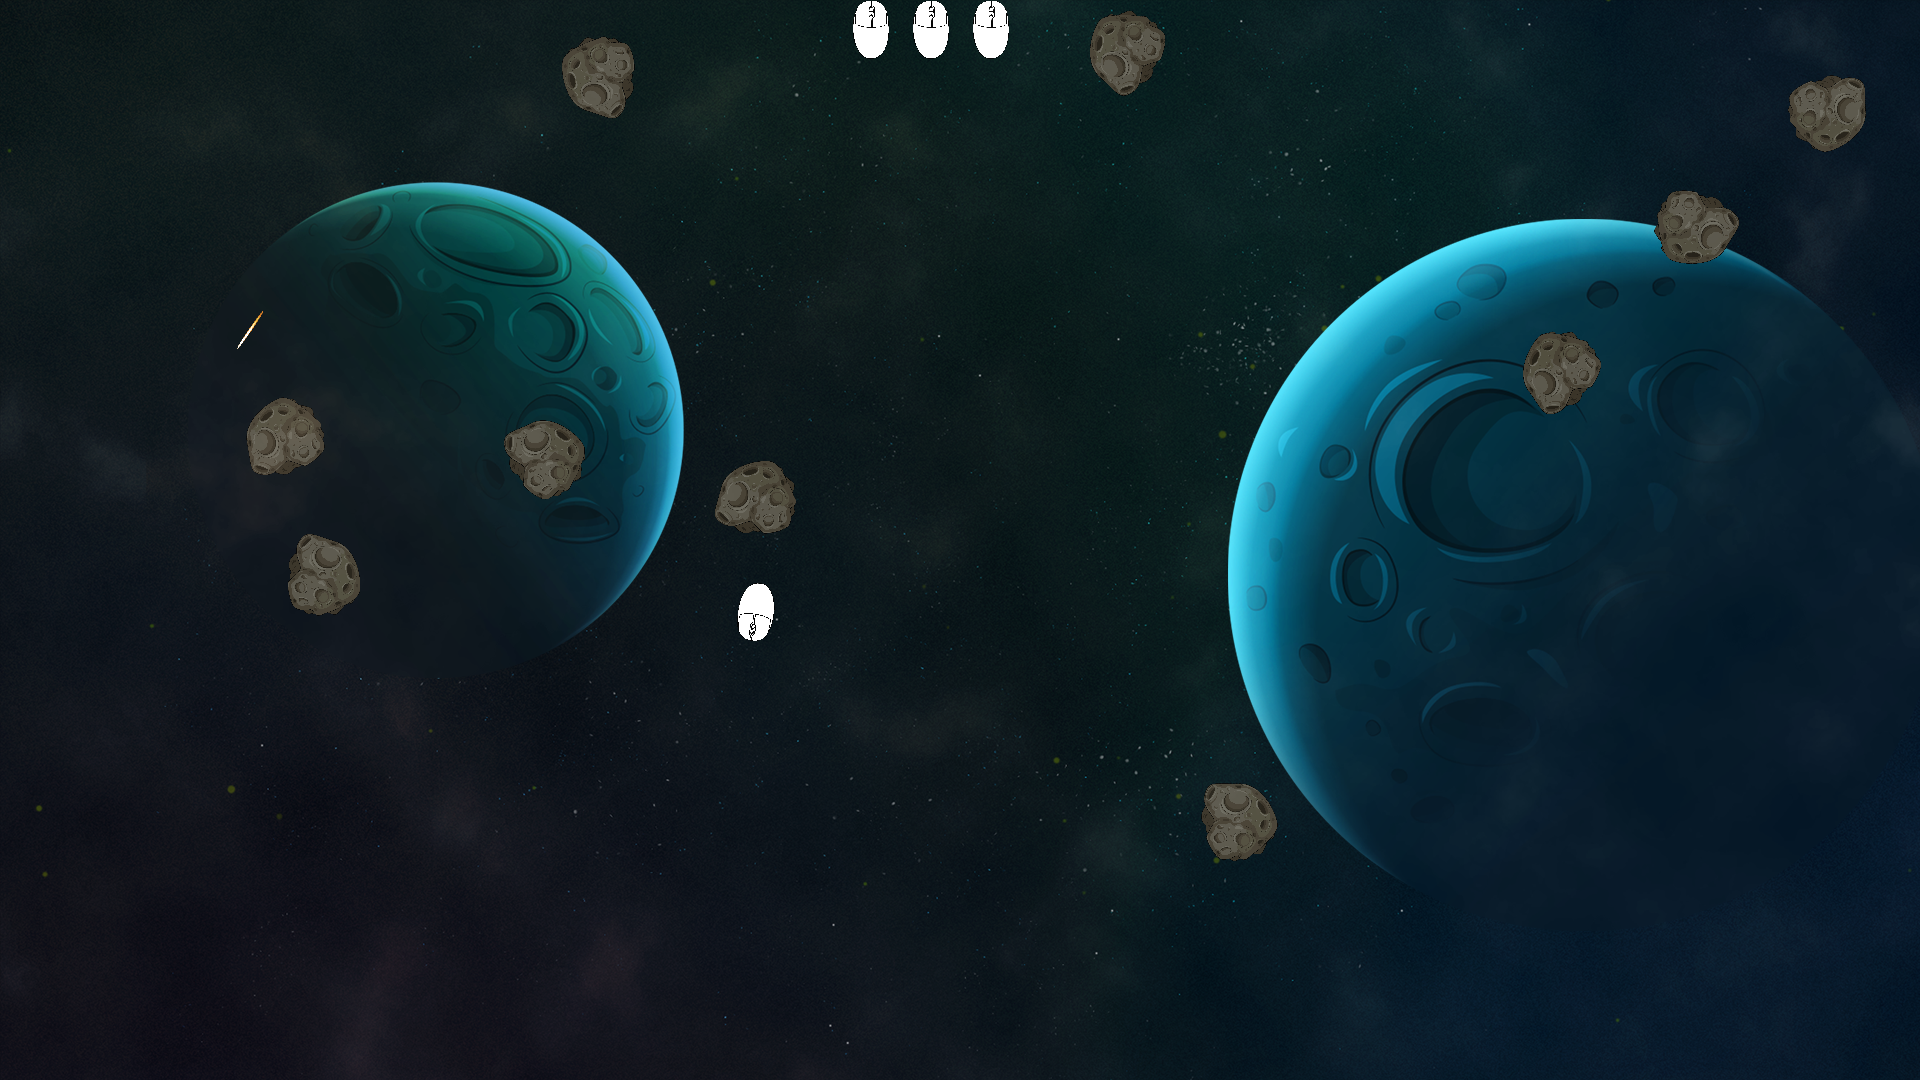
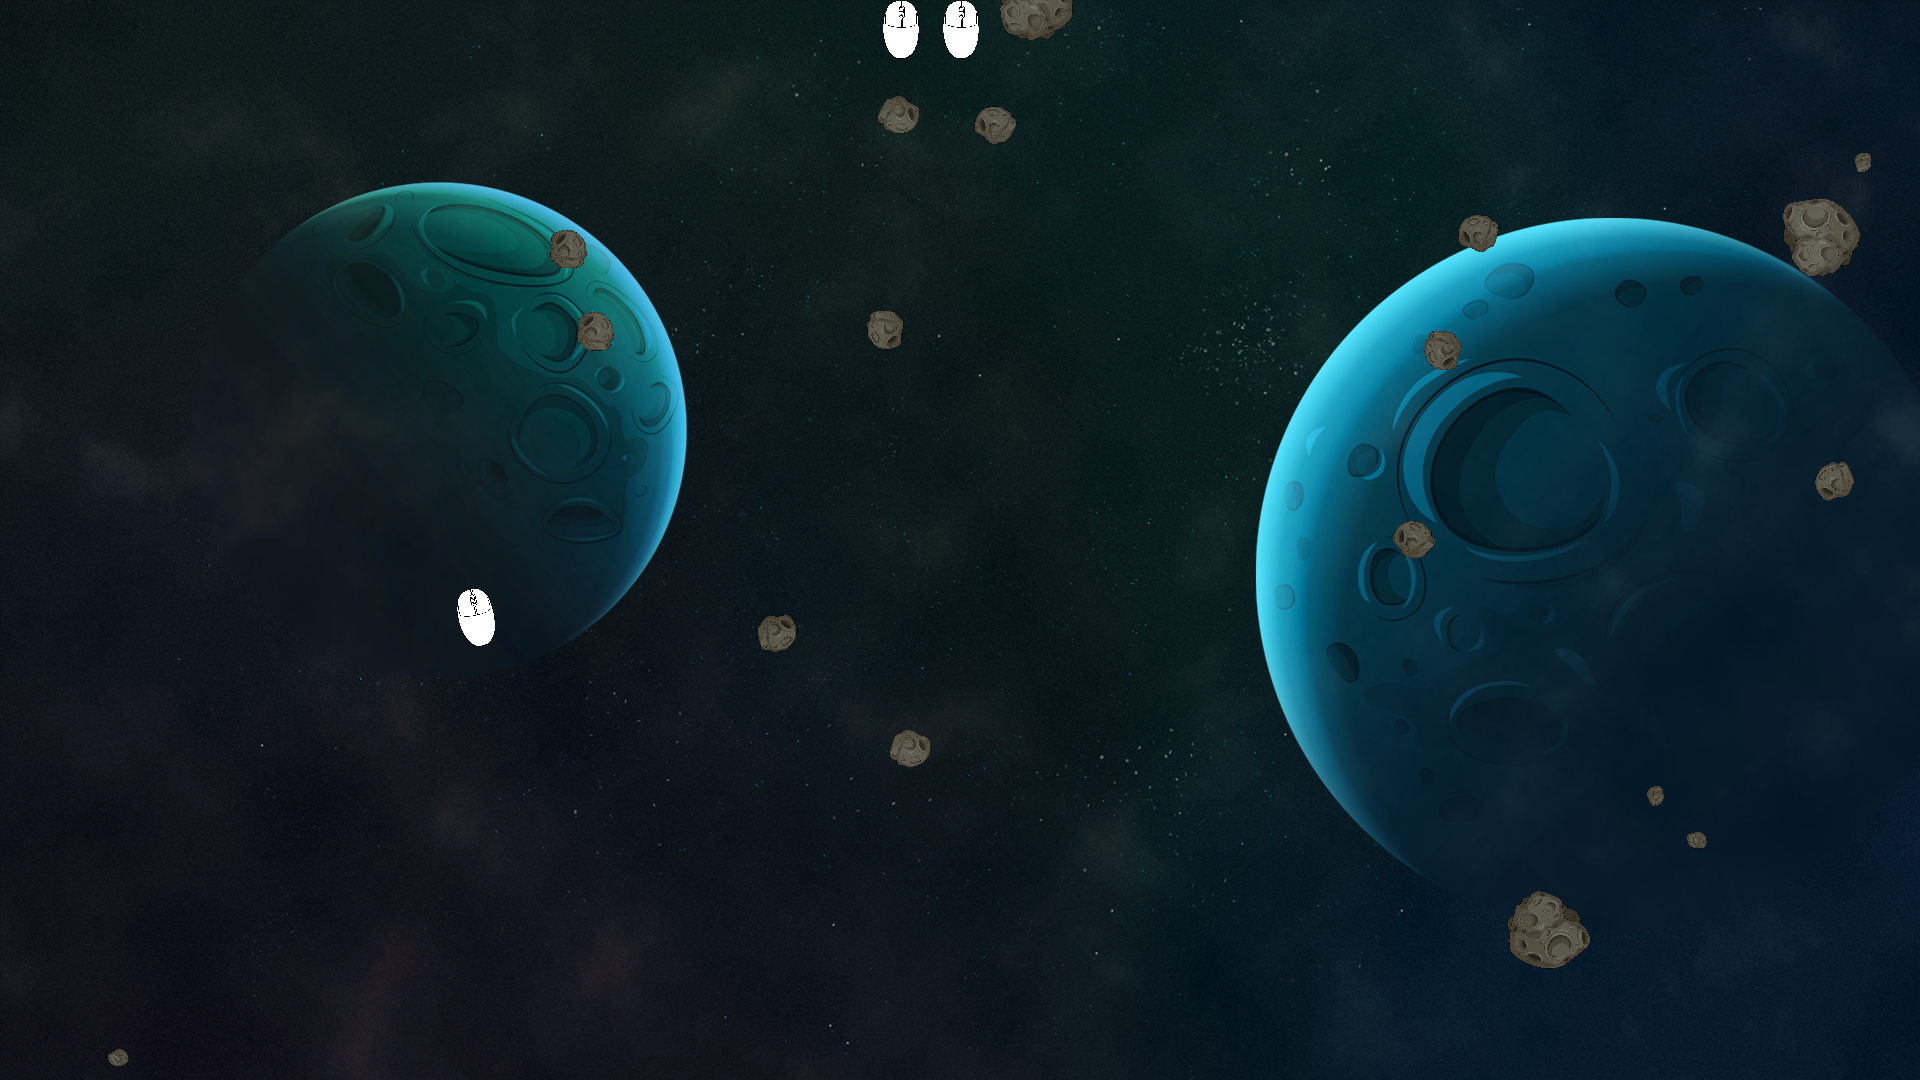
Added bullet circle warp

diff --git a/Asteroids/src/Bullet.cpp b/Asteroids/src/Bullet.cpp
@@ -46,7 +46,7 @@ void fireBullet(Vector2 pos, Bullet& bul)
 	bul.curLife = 0;
 }
 
-void moveBullet(Bullet& bul)
+void moveBullet(Bullet& bul, Settings settings)
 {
 	bul.pos.x += bul.vel.x * GetFrameTime() * bul.speed;
 	bul.pos.y += bul.vel.y * GetFrameTime() * bul.speed;
@@ -54,13 +54,33 @@ void moveBullet(Bullet& bul)
 	bul.curLife += GetFrameTime();
 
 	if ((int)bul.pos.x > GetScreenWidth())
+	{
 		bul.pos.x = 0;
+
+		if (settings.circleWarp)
+			bul.pos.y = (float)GetScreenHeight() - bul.pos.y;
+	}
 	else if ((int)bul.pos.x < 0)
+	{
 		bul.pos.x = (float)GetScreenWidth();
+
+		if (settings.circleWarp)
+			bul.pos.y = (float)GetScreenHeight() - bul.pos.y;
+	}
 	else if ((int)bul.pos.y > GetScreenHeight())
+	{
 		bul.pos.y = 0;
+
+		if (settings.circleWarp)
+			bul.pos.x = (float)GetScreenWidth() - bul.pos.x;
+	}
 	else if ((int)bul.pos.y < 0)
+	{
 		bul.pos.y = (float)GetScreenHeight();
+
+		if (settings.circleWarp)
+			bul.pos.x = (float)GetScreenWidth() - bul.pos.x;
+	}
 }
 
 void drawBullet(Bullet& bul, bool showColliders)

diff --git a/Asteroids/src/Game.cpp b/Asteroids/src/Game.cpp
@@ -103,7 +103,7 @@ void update(Game& game)
 {
 	input(game);
 	checkCollisions(game);
-	moveShip(game.ship);
+	moveShip(game.ship, game.settings);
 	shipPortal(game.ship, game.settings);
 	updateStarBrightness(game.starBrightness, game.dimming);
 	parallax(game);
@@ -113,6 +113,7 @@ void update(Game& game)
 		moveAsteroid(game.ast[i]);
 		portalAsteroids(game.ast[i], game.settings);
 		updateCounter(game.ast[i]);
+
 		if (asteroidDestroyed(game.ast[i]))
 			game.ast[i].big.active = true;
 	}

diff --git a/Asteroids/src/Ship.cpp b/Asteroids/src/Ship.cpp
@@ -34,14 +34,14 @@ Ship newShip()
 	return ship;
 }
 
-void moveShip(Ship& ship)
+void moveShip(Ship& ship, Settings settings)
 {
 	ship.pos.x += ship.vel.x * ship.speed * GetFrameTime();
 	ship.pos.y += ship.vel.y * ship.speed * GetFrameTime();
 
 	for (int i = 0; i < ship.maxBullets; i++)
 	{
-		moveBullet(ship.bul[i]);
+		moveBullet(ship.bul[i], settings);
 
 		if (ship.bul[i].curLife > ship.bul[i].lifeSpan)
 			resetBullet(ship.pos, ship.bul[i]);

diff --git a/Asteroids/src/Bullet.h b/Asteroids/src/Bullet.h
@@ -1,4 +1,5 @@
 #pragma once
+#include "Settings.h"
 #include "Topo.h"
 
 struct Bullet
@@ -20,6 +21,6 @@ struct Bullet
 Bullet newBullet();
 void resetBullet(Vector2 pos, Bullet& bul);
 void fireBullet(Vector2 pos, Bullet& bul);
-void moveBullet(Bullet& bul);
+void moveBullet(Bullet& bul, Settings settings);
 void drawBullet(Bullet& bul, bool showColliders);
 void showExplosion(Bullet& bul);

diff --git a/Asteroids/src/Ship.h b/Asteroids/src/Ship.h
@@ -28,7 +28,7 @@ struct Ship
 };
 
 Ship newShip();
-void moveShip(Ship& ship);
+void moveShip(Ship& ship, Settings settings);
 void accelerateShip(float axisX, float axisY, Ship& ship);
 void updateRotation(Ship& ship);
 void drawShip(Ship& ship, bool showColliders);
